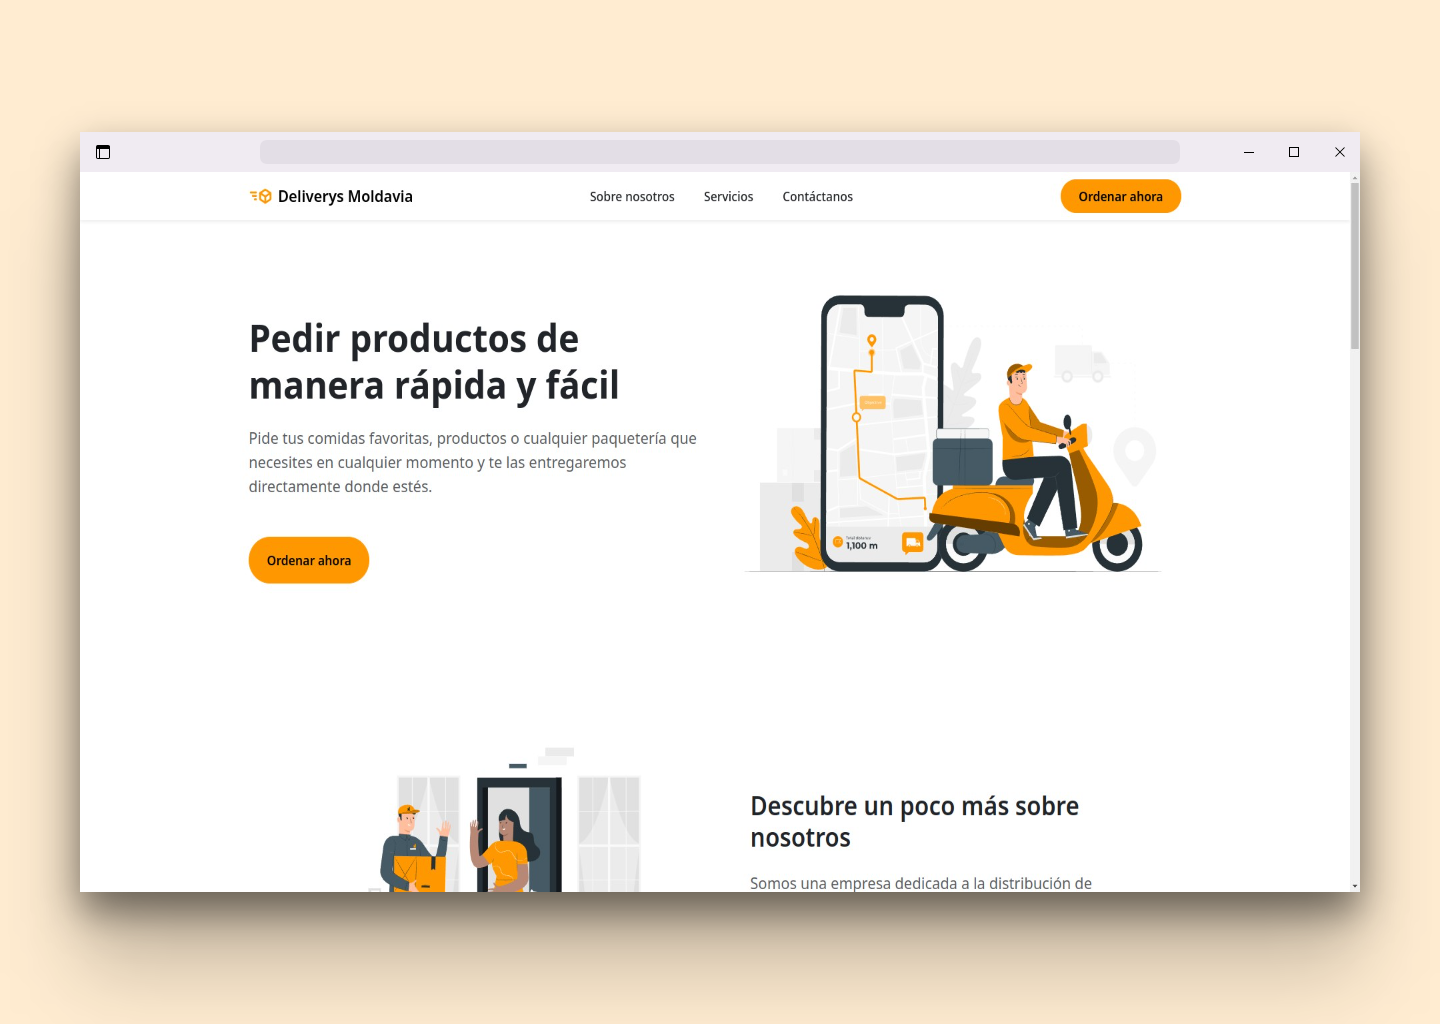
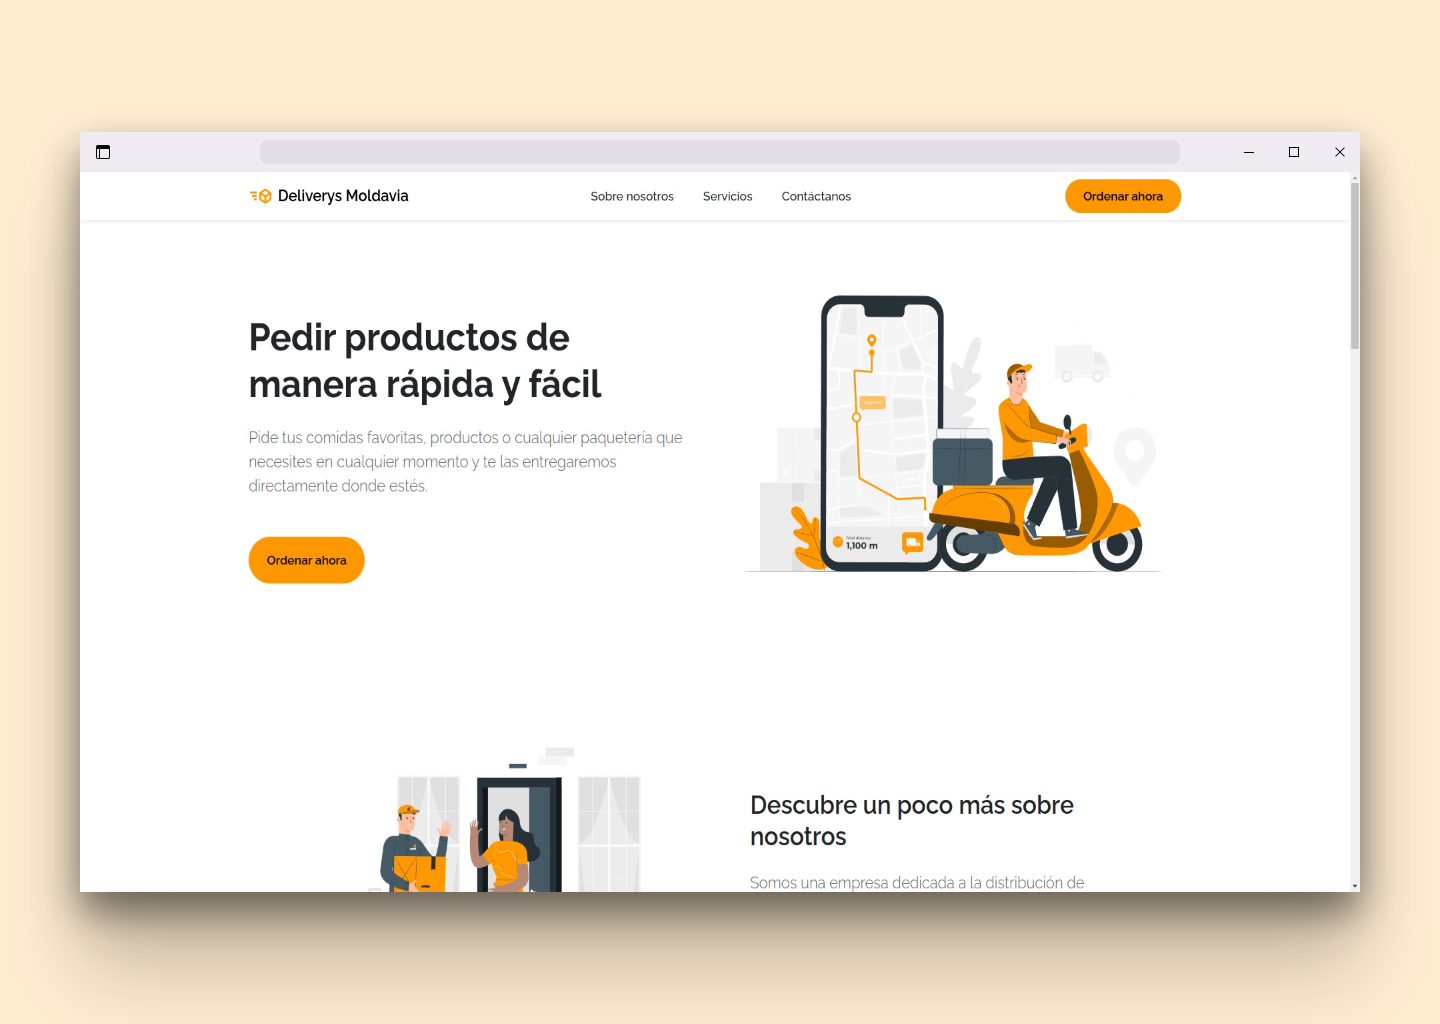
agregar archivos mediante subida

diff --git a/assets/css/bs5-purge.css b/assets/css/bs5-purge.css
@@ -71,7 +71,7 @@
     --bs-dark-border-subtle: #adb5bd;
     --bs-white-rgb: 255, 255, 255;
     --bs-black-rgb: 0, 0, 0;
-    --bs-font-sans-serif: system-ui, -apple-system, "Segoe UI", Roboto, "Helvetica Neue", "Noto Sans", "Liberation Sans", Arial, sans-serif, "Apple Color Emoji", "Segoe UI Emoji", "Segoe UI Symbol", "Noto Color Emoji";
+    --bs-font-sans-serif: 'Raleway', system-ui, -apple-system, "Segoe UI", Roboto, "Helvetica Neue", "Noto Sans", "Liberation Sans", Arial, sans-serif, "Apple Color Emoji", "Segoe UI Emoji", "Segoe UI Symbol", "Noto Color Emoji";
     --bs-font-monospace: SFMono-Regular, Menlo, Monaco, Consolas, "Liberation Mono", "Courier New", monospace;
     --bs-gradient: linear-gradient(180deg, rgba(255, 255, 255, 0.15), rgba(255, 255, 255, 0));
     --bs-body-font-family: var(--bs-font-sans-serif);

diff --git a/index.html b/index.html
@@ -35,6 +35,11 @@
     <meta name="msapplication-TileColor" content="#ffffff">
     <meta name="msapplication-TileImage" content="./assets/img/favicon/ms-icon-144x144.png">
     <meta name="theme-color" content="#ffffff">
+    <!-- Google Font -->
+    <link rel="preconnect" href="https://fonts.googleapis.com">
+    <link rel="preconnect" href="https://fonts.gstatic.com" crossorigin>
+    <link href="https://fonts.googleapis.com/css2?family=Raleway:wght@300;400;500;600;700&display=swap"
+        rel="stylesheet">
     <!-- CSS -->
     <link rel="stylesheet" href="./assets/css/bs5-purge.css">
     <link rel="stylesheet" href="./assets/css/style.css">
